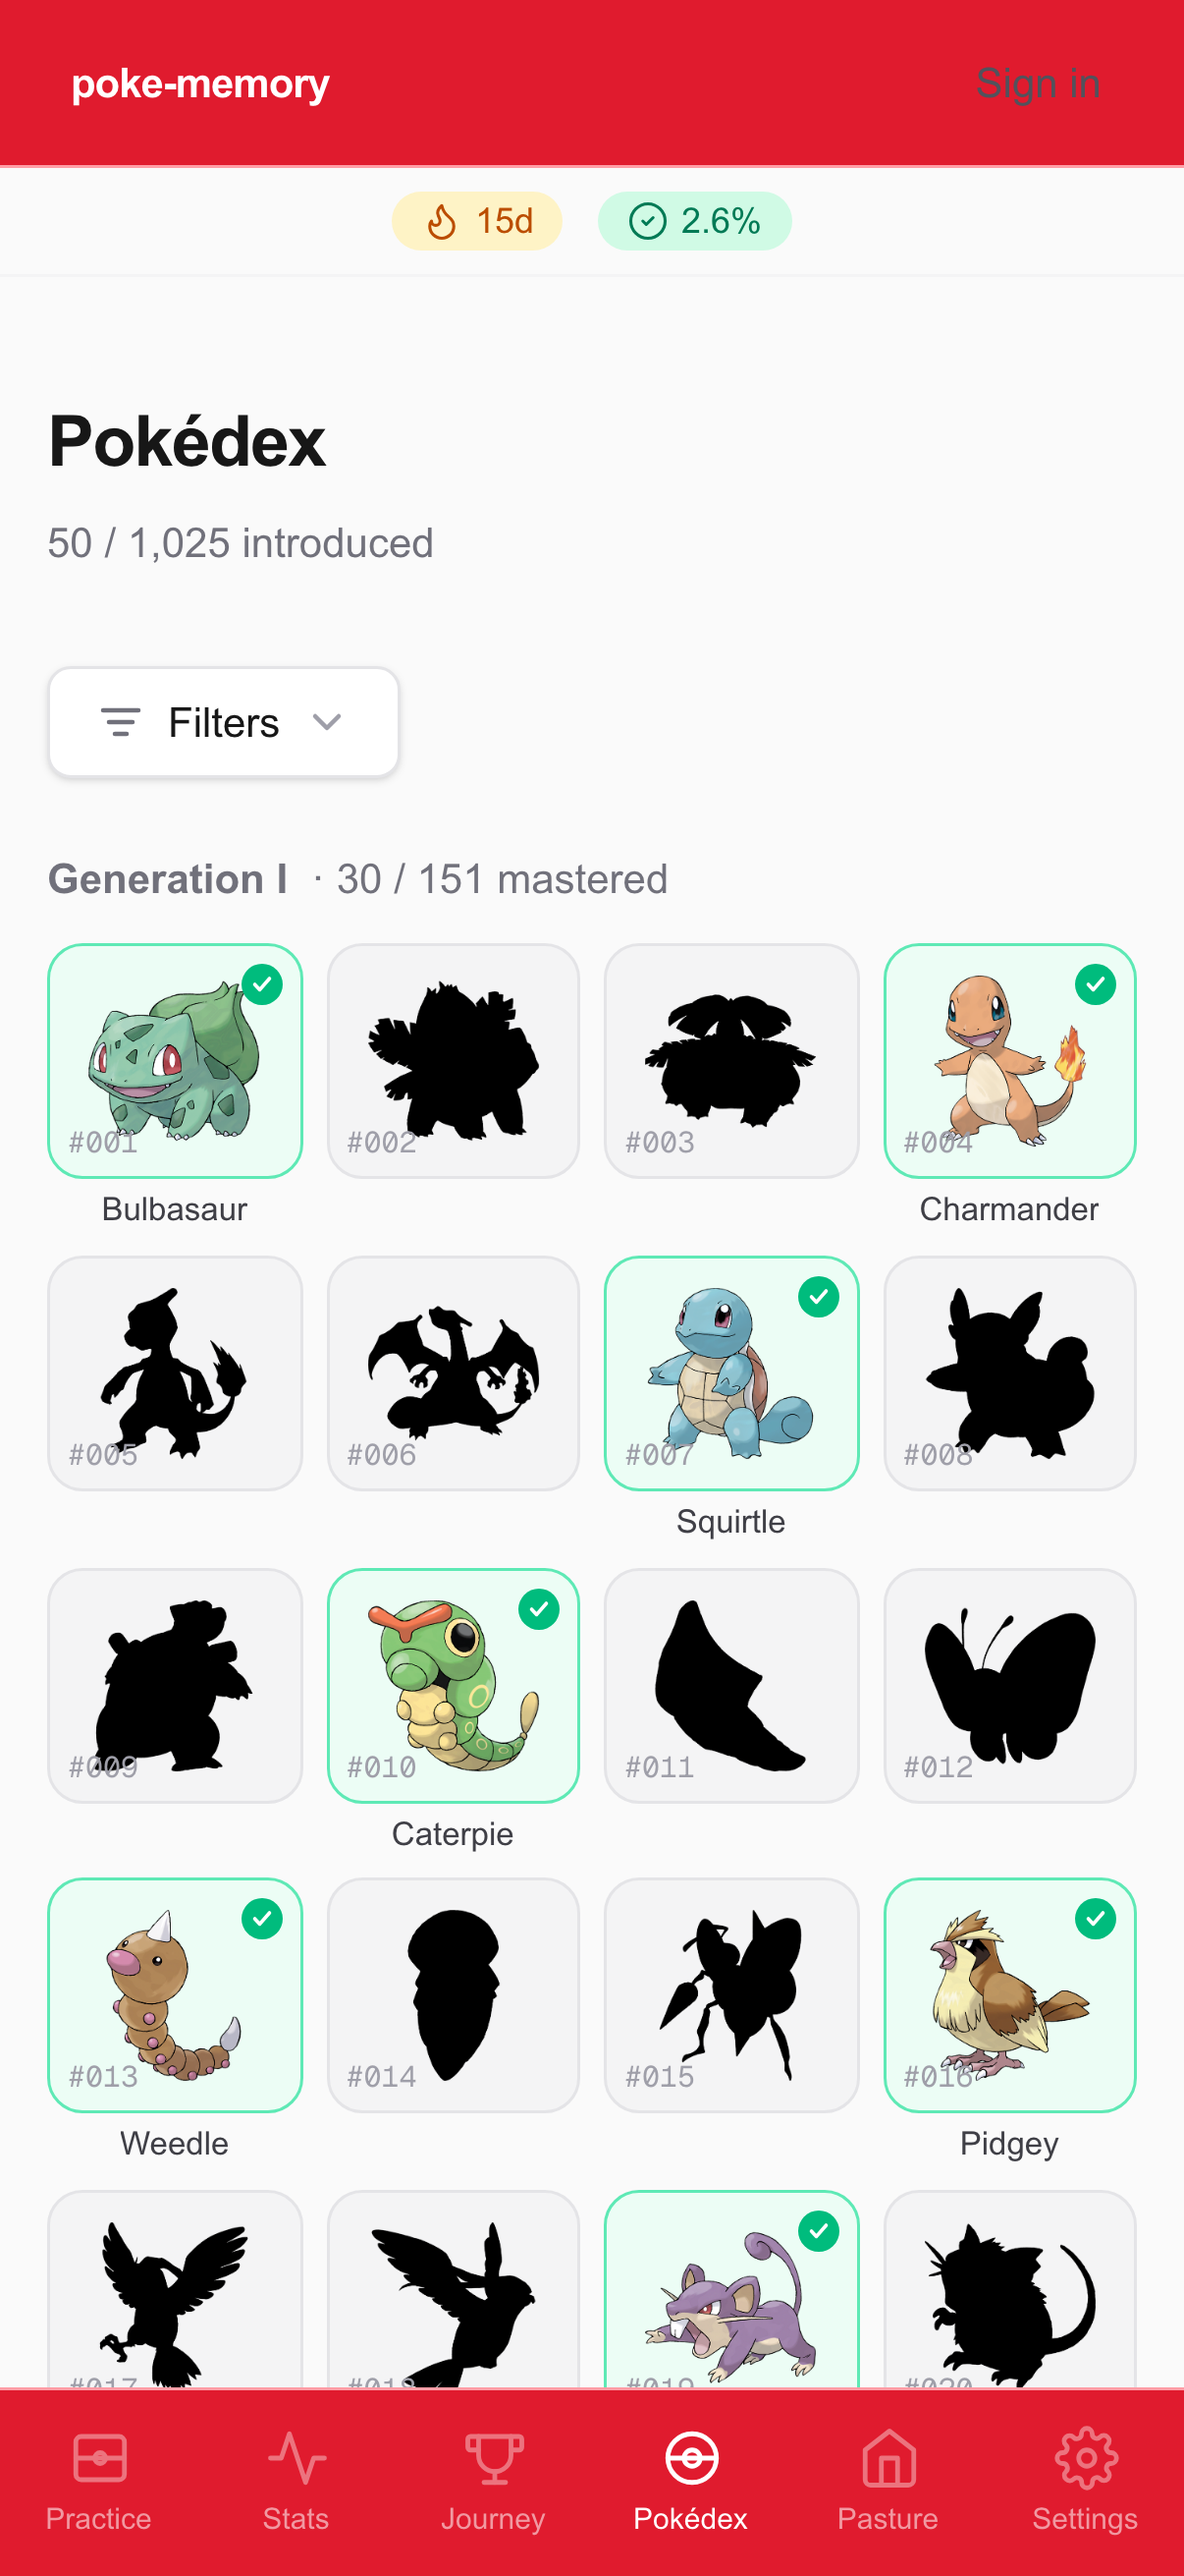
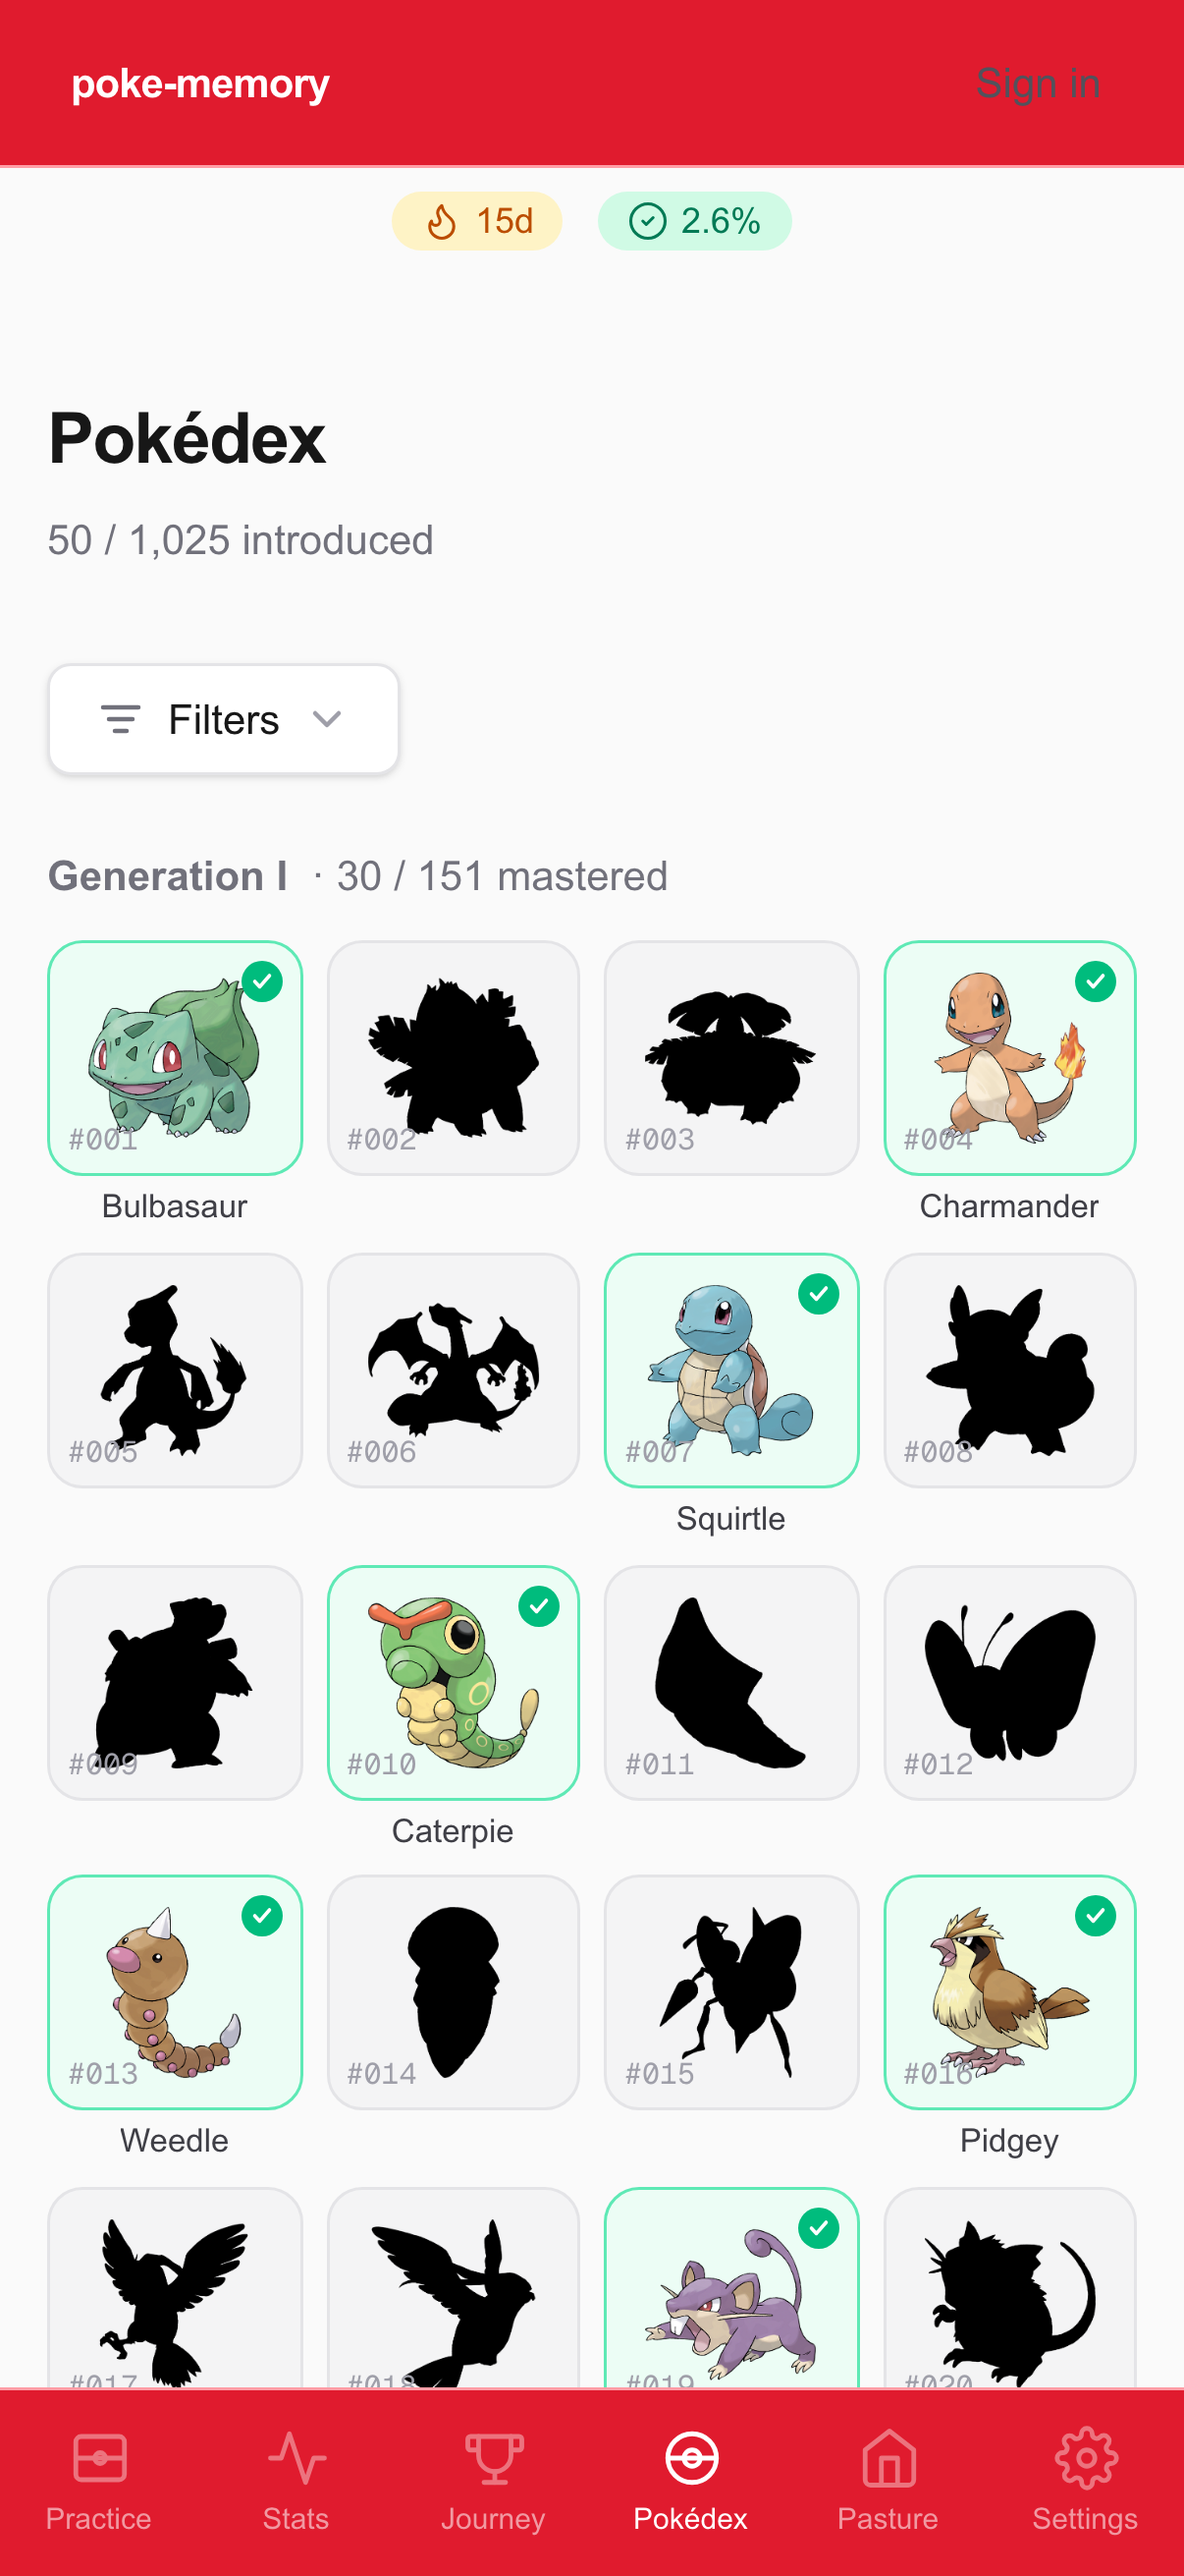
fix(ui): remove hard border-b divider under ProfileStatusBar
The status band applied `border-b border-zinc-100 dark:border-zinc-900`
to both the skeleton and populated bar root. In dark mode zinc-900 is
darker than the theme background, so it read as a hard line on every
non-Practice page. The Nav's own border-theme-secondary already delimits
the header region.

Removed the bottom border from both divs. The internal border-l hairline
between chip groups (multi-language separator) is untouched.

Regenerates four README screenshots (pokedex-grid, pasture, stats,
journey) to reflect the cleaner bar appearance.

closes #1639

diff --git a/components/profile/ProfileStatusBar.tsx b/components/profile/ProfileStatusBar.tsx
@@ -70,7 +70,7 @@ export function ProfileStatusBar() {
     return (
       <div
         aria-hidden="true"
-        className={`${BAR_HEIGHT_CLASS} w-full border-b border-zinc-100 bg-background dark:border-zinc-900 ${isPracticePage ? "hidden md:block" : ""}`}
+        className={`${BAR_HEIGHT_CLASS} w-full bg-background ${isPracticePage ? "hidden md:block" : ""}`}
       />
     );
   }
@@ -85,7 +85,7 @@ export function ProfileStatusBar() {
       role="region"
       aria-label={barAriaLabel}
       // Mobile Practice: hide. Desktop: always visible.
-      className={`w-full border-b border-zinc-100 bg-background dark:border-zinc-900 ${isPracticePage ? "hidden md:block" : ""}`}
+      className={`w-full bg-background ${isPracticePage ? "hidden md:block" : ""}`}
     >
       <div
         className={`mx-auto flex ${BAR_HEIGHT_CLASS} max-w-5xl items-center justify-center gap-3 px-4`}

diff --git a/changelog.d/unreleased/1639-statusbar-divider.md b/changelog.d/unreleased/1639-statusbar-divider.md
@@ -1,0 +1,4 @@
+---
+kind: fixed
+---
+- Removed the hard horizontal divider line that appeared under the ProfileStatusBar on all non-Practice pages (Pokédex, Pasture, Stats, Journey). The non-theme zinc border read as a near-black line in dark mode; the Nav's own border already delimits the header region.
